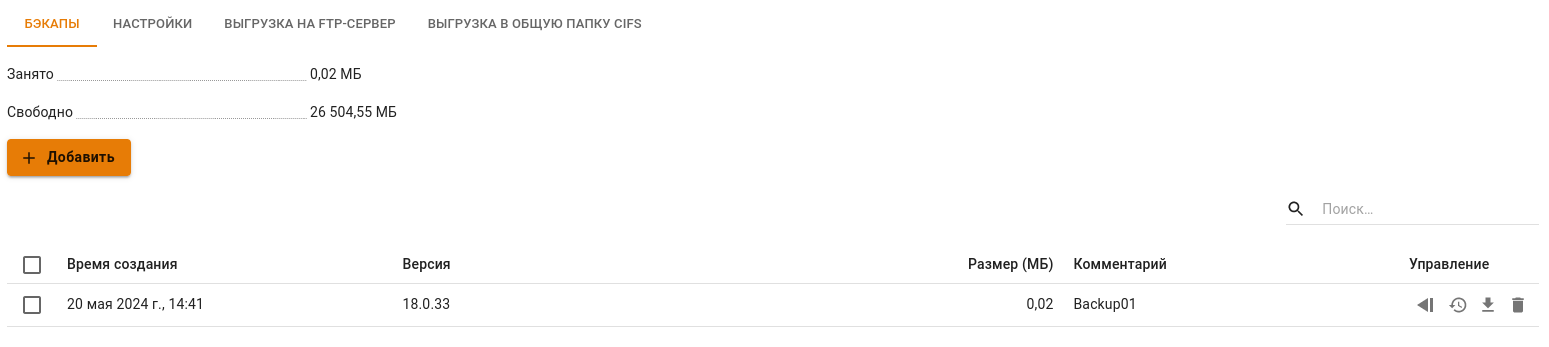
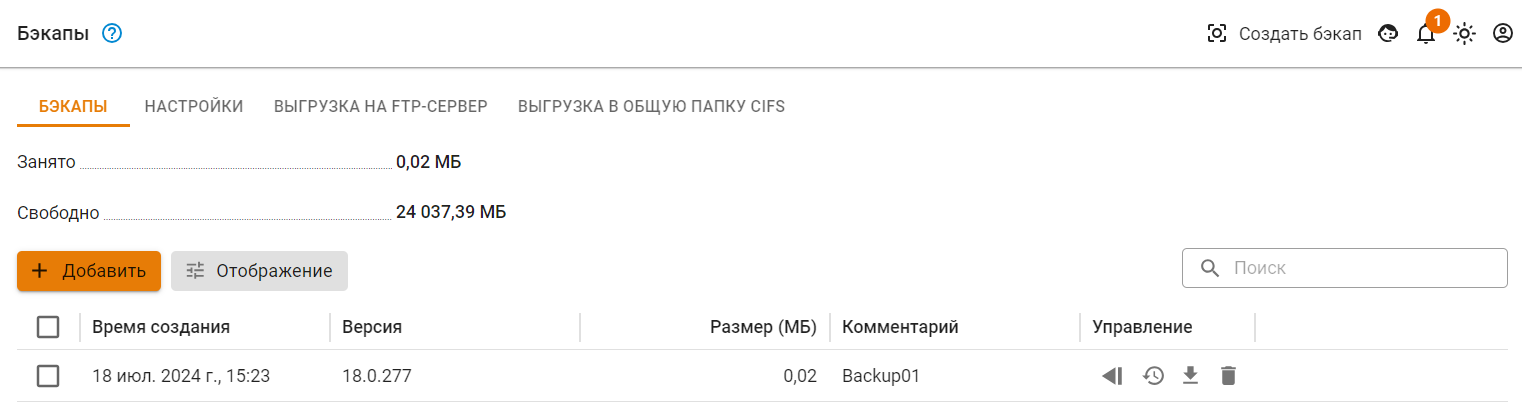
ICS-36600 УТМ. Актуализирвать статью Бекапы и VCE

diff --git a/settings/server-management/backup.md b/settings/server-management/backup.md
@@ -1,82 +1,76 @@
 ---
 description: >-
-  В этом разделе находится описание процесса создания бэкапа
-  интернет-шлюза Ideco NGFW.
+  В этом разделе находится описание процесса создания и восстановления бэкапа интернет-шлюза Ideco NGFW.
 ---
 
+# Бэкапы
+
+Бэкап - это предварительно созданная резервная копия данных, позволяющая восстановить большинство настроек и сохраненной информации.
+
 {% hint style="success" %}
-Название службы раздела **Бэкапы**: `ideco-backup-backend`; `ideco-backup-create`; `ideco-backup-restore`; `ideco-backup-rotate`.\
+Название служб раздела **Бэкапы**: `ideco-backup-backend`; `ideco-backup-create`; `ideco-backup-restore`; `ideco-backup-rotate`.\
 Список служб для других разделов доступен по [ссылке](/settings/server-management/terminal.md).
 {% endhint %}
 
-Интернет-шлюз поддерживает следующие типы автоматического бэкапа:
-
-* на сетевое файловое хранилище по протоколу FTP;
-* на сетевое файловое хранилище по протоколу NetBIOS;
-* на локальный жесткий диск.
-
-Для настройки автоматического бэкапа перейдите в раздел **Управление сервером -> Бэкапы -> Настройки** и укажите в настройках час (рекомендуется выбирать ночное время для создания бэкапа).
-
-{% hint style="info" %}
-Бэкапы включают в себя все настройки, которые администратор может создать в веб-интерфейсе.
+В NGFW создается только полный бэкап, который включают в себя все настройки, созданные администратором в веб-интерфейсе.
 
 Бэкапы не включают в себя:
 
-* Логи;
+* Журнал событий;
 * Почту;
 * Статистику web-трафика и другие отчеты;
-* Любые кешируемые данные - базы антивирусов, правила IPS и т. п.;
+* Любые кешируемые данные; базы антивирусов, правила IPS и т. п.;
 * Настройки созданных [VCE](/settings/server-management/vce.md);
 * Любые данные, генерируемые в процессе работы системы автоматически.
+
+{% hint style="info" %} В бэкап корневого VCE не входят данные и настройки, которые содержатся в дочерних VCE. Чтобы обеспечить полное сохранение данных, создайте бэкап отдельно по корневому VCE и по каждому из дочерних VCE.
 {% endhint %}
 
-Хранить бэкапы можно в течение недели или месяца:
+В NGFW бэкап создается как автоматически, так и вручную.
+
+## Автоматическое создание бэкапа
+Для настройки автоматического бэкапа перейдите в раздел **Управление сервером -> Бэкапы -> Настройки**:
 
 ![](/.gitbook/assets/backup.png)
 
-Для создания быстрого бэкапа нажмите ![](/.gitbook/assets/icon-backup.png) **Создать бэкап** в правом верхнем углу веб-интерфейса.
+Установите время ежедневного создания и продолжительность хранения бэкапа на локальном жестком диске. При настройке выгрузки на сетевое файловое хранилище автоматический бэкап будет также дублироваться туда.
 
-{% hint style="warning" %}
-Если на Ideco NGFW настроен кластер:
+* **Время ежедневного создания копии** - укажите в настройках час (рекомендуется выбирать ночное время для создания бэкапа);
 
-* Автоматические бэкапы отключены на резервной ноде. Все бэкапы с активной ноды передаются на резервную в момент обмена данными (происходит раз в три минуты) и заменяют те бэкапы, которые там присутствовали ранее;
-* На активной ноде доступно **Мгновенное восстановление из бэкапа**. Восстанавливаются все настройки, кроме использованного трафика по квотам, изменений в списке пользователей и отчетах. Данные на второй ноде также придут в соответствие с восстановленными настройкам после синхронизации нод;
-* Если с момента создания бэкапа на активной ноде до переключения нод не было синхронизации данных между нодами, после переключения этот бэкап будет потерян;
-* Если с момента мгновенного восстановления из бэкапа на активной ноде до переключения нод не было синхронизации данных между нодами, после переключения вторая нода окажется в состоянии до восстановления.
-{% endhint %}
+* **Хранить в течение** - хранить бэкапы на локальном жестком диске можно в течение недели или месяца.
 
-## Бэкапы на удаленное файловое хранилище по протоколу FTP
+{% hint style="info" %} Каждый автоматически созданный бэкап сохраняется в таблице бэкапов с комментарием "Автоматическая резервная копия".{% endhint %}
+
+Рекомендуется хранить бэкапы не только на локальном жестком диске, но и на внешних носителях. NGFW предоставляет возможность выгружать бэкапы:
+* на сетевое файловое хранилище по протоколу FTP;
+* на сетевое файловое хранилище по протоколу NetBIOS (CIFS);
+* на ПК через кнопку **Скачать** в таблице бэкапов (![](/.gitbook/assets/download.png)) для переноса с сервера на иной внешний носитель вручную.
+
+### Бэкапы на удаленное файловое хранилище по протоколу FTP 
 
 Ключевые параметры, необходимые для настройки бэкапа на FTP-сервер, описаны в таблице:
 
-<table><thead><tr><th width="188">Параметр</th><th>Описание</th></tr></thead><tbody><tr><td>Адрес сервера</td><td>IP-адрес удаленного FTP-сервера, на котором будут размещаться копии базы данных</td></tr><tr><td>Логин</td><td>Имя пользователя для авторизации на FTP-сервере</td></tr><tr><td>Пароль</td><td>Пароль для авторизации на FTP-сервере</td></tr><tr><td>Путь к каталогу</td><td>Каталог, в который будут записываться копии базы данных</td></tr></tbody></table>
+<table><thead><tr><th width="188">Параметр</th><th>Описание</th></tr></thead><tbody><tr><td>Адрес сервера</td><td>IP-адрес удаленного FTP-сервера, на котором будут размещаться бэкапы</td></tr><tr><td>Логин</td><td>Имя пользователя для авторизации на FTP-сервере</td></tr><tr><td>Пароль</td><td>Пароль для авторизации на FTP-сервере</td></tr><tr><td>Путь к каталогу</td><td>Каталог, в который будут записываться бэкапы</td></tr></tbody></table>
 
-## Бэкапы на сетевое файловое хранилище по протоколу NetBIOS (CIFS)
+### Бэкапы на сетевое файловое хранилище по протоколу NetBIOS (CIFS)
 
 Ключевые параметры, необходимые для настройки бэкапа на NetBIOS-сервер, описаны в таблице:
 
-<table><thead><tr><th width="189">Параметр</th><th>Описание</th></tr></thead><tbody><tr><td>Адрес сервера</td><td>IP-адрес удаленного NetBIOS-сервера, на котором будут размещаться копии базы данных</td></tr><tr><td>Логин</td><td>Имя пользователя для авторизации на сетевом ресурсе Windows</td></tr><tr><td>Пароль</td><td>Пароль для авторизации на сетевом ресурсе Windows</td></tr><tr><td>Путь к каталогу</td><td>Каталог, в который будут записываться копии базы данных</td></tr></tbody></table>
+<table><thead><tr><th width="189">Параметр</th><th>Описание</th></tr></thead><tbody><tr><td>Адрес сервера</td><td>IP-адрес удаленного NetBIOS-сервера, на котором будут размещаться бэкапы</td></tr><tr><td>Логин</td><td>Имя пользователя для авторизации на сетевом ресурсе Windows</td></tr><tr><td>Пароль</td><td>Пароль для авторизации на сетевом ресурсе Windows</td></tr><tr><td>Путь к каталогу</td><td>Каталог, в который будут записываться бэкапы</td></tr></tbody></table>
 
 {% hint style="info" %}
-Для доменной учетной записи формат поля **Логин** должен иметь вид: **Имя\_пользователя**.
-
 Укажите путь к каталогу в UNIX-формате. К примеру, в ОС Windows каталог открывается по следующему пути `\\192.168.1.1\dir_1\dir_2\backup`, значит, в поле **Путь к каталогу** пропишите `dir_1/dir_2/backup`.
 {% endhint %}
 
-## Бэкапы на локальный жесткий диск
+## Ручное создание бэкапа
 
-Загрузите бэкап с сервера или с компьютера на сервер с помощью веб-интерфейса либо локального меню.
+### Через веб-интерфейс
 
-* Кнопка **Добавить** позволяет создать бэкап настроек сервера. Копии настроек создаются автоматически ежедневно;
-* Кнопка **Мгновенное восстановление** позволяет восстановить все настройки, кроме использованного трафика по квотам, изменений в списке пользователей и отчетах. Бэкап применится без перезагрузки;
-* Кнопка **Полное восстановление** позволяет восстановить бэкап настроек. Возможно восстановление настроек только для бэкапа версии, одинаковой с установленной на сервере. Система будет перезагружена;
-* Кнопка **Скачать** позволяет скачать бэкап с сервера на ваш компьютер;
-* Кнопка **Удалить** удаляет бэкап с сервера.
-
-Интерфейс управления бэкапами:
+Для создания бэкапа через интерфейс Ideco NGFW перейдите в **Управление сервером -> Бэкапы -> Бэкапы** и нажмите **Добавить -> Создать**. Введите комментарий и нажмите **Добавить** или нажмите ![](/.gitbook/assets/icon-backup.png) **Создать бэкап** в правом верхнем углу веб-интерфейса. Новый бэкап появится в таблице:
 
 ![](/.gitbook/assets/backup4.png)
 
+### Через локальное меню
 Чтобы создать новый бэкап через локальное меню Ideco NGFW, выполните действия: 
 
 1\. Выберите пункт **10** и нажмите **Enter**. 
@@ -87,13 +81,33 @@ description: >-
 
 ![](/.gitbook/assets/local-menu3.png)
 
+{% hint style="info" %}
+Настройка сохранения бэкапа в сетевом файловом хранилище возможна только через веб-интерфейс Ideco NGFW. Выгрузка на внешние сетевые хранилища производится только при автоматическом создании бэкапа.
+{% endhint %}
+
 ## Восстановление конфигурации из бэкапа
 
-Восстановите конфигурацию из бэкапа, выбрав один из способов:
+В NGFW восстановление из бэкапа возможно полное и мгновенное. 
 
-<details>
+При выполнении полного восстановления система будет перезагружена для применения настроек сервера.
 
-<summary>Через локальное меню</summary>
+При выполнении мгновенного восстановления бэкап применятся без перезагрузки. При этом не сохраняются:
+* Счетчики квот;
+* Журнал событий.
+
+{% hint style="info" %} Полное восстановление возможно либо на текущую версию, либо на предыдущую мажорную версию. Например, на версии 17 возможно полное восстановление бэкапа версии 16 или версии 17. 
+
+Мгновенное восстановление возможно только для бэкапа версии, полностью совпадающей с установленной на сервере. {% endhint %}
+
+### Через веб-интерфейс
+
+Перейдите в раздел **Управление сервером -> Бэкапы -> Бэкапы** и нажмите кнопку **Полное восстановление** (![](/.gitbook/assets/icon-recovery.png)) или **Мгновенное восстановление** (![](/.gitbook/assets/mg-recovery.png)) в столбце **Управление**. 
+
+Также можно загрузить бэкап из файла. Например, в случае переноса с другого сервера. Для восстановления конфигураций бэкапа, который находится на внешнем носителе, перейдите на **Управление сервером -> Бэкапы -> вкладка Бэкапы**, нажмите на кнопку **Добавить** и выберите **Загрузить из файла**:
+
+![](/.gitbook/assets/backup2.png)
+
+### Через локальное меню
 
 Перейдите в локальное меню и выполните действия:
 
@@ -105,22 +119,21 @@ description: >-
 
 2\. Выберите из списка бэкап, введя пункт нужной копии, и нажмите **Enter**. 
 
-3\. Перезагрузите сервер, введя **y**, а затем **Enter**.
+3\. Перезагрузите сервер при запуске полного восстановления, введя **y**, а затем **Enter**. При мгновенном восстановлении перезагрузка не нужна.
 
 Пример восстановления из бэкапа через локальное меню:
 
 ![](/.gitbook/assets/local-menu4.png)
 
-</details>
-
-<details>
-
-<summary>Через веб-интерфейс</summary>
-
-Перейдите в раздел **Управление сервером -> Бэкапы -> Бэкапы** и нажмите кнопку **Применить** (![](/.gitbook/assets/icon-recovery.png) в столбце **Управление**). Система будет перезагружена для применения настроек сервера.
-
-</details>
-
 {% hint style="info" %}
 Чтобы перенести установленный Ideco NGFW с одного сервера на другой с сохранением всех настроек, воспользуйтесь статьей [Перенос данных и настроек на другой сервер](/recipes/popular-recipes/transferring-data-to-another-server.md).
+{% endhint %}
+
+{% hint style="warning" %}
+Если на Ideco NGFW настроен кластер:
+
+* Автоматические бэкапы отключены на резервной ноде. Все бэкапы с активной ноды передаются на резервную в момент обмена данными (происходит раз в три минуты) и заменяют те бэкапы, которые там присутствовали ранее;
+* На активной ноде доступно **Мгновенное восстановление из бэкапа**. Восстанавливаются все настройки, кроме использованного трафика по квотам, изменений в списке пользователей и отчетах. Данные на второй ноде также придут в соответствие с восстановленными настройкам после синхронизации нод;
+* Если с момента создания бэкапа на активной ноде до переключения нод не было синхронизации данных между нодами, после переключения этот бэкап будет потерян;
+* Если с момента мгновенного восстановления из бэкапа на активной ноде до переключения нод не было синхронизации данных между нодами, после переключения вторая нода окажется в состоянии до восстановления.
 {% endhint %}

diff --git a/settings/server-management/vce.md b/settings/server-management/vce.md
@@ -1,35 +1,34 @@
 # VCE
 
-VCE - это функция Ideco NGFW, которая позволяет создавать виртуальные серверы на одном корневом NGFW. Это дает возможность разбить одну локальную сеть на несколько независимых подсетей, индивидуально создавать для каждой из этих сетей политики безопасности и объекты, а также разграничивать доступ и независимо управлять дочерними VCE. При этом нет необходимости устанавливать и настраивать для этого отдельные физические серверы. 
-
-Функциональность созданных внутри NGFW виртуальных VCE-серверов почти не отличается от функциональности NGFW. 
+VCE - это функция Ideco NGFW, которая позволяет создавать виртуальные серверы на одном корневом NGFW. Это дает возможность разбить одну локальную сеть на несколько независимых подсетей, индивидуально создавать для каждой из этих сетей политики безопасности и объекты, а также разграничивать доступ и независимо управлять дочерними VCE. При этом нет необходимости устанавливать и настраивать для этого отдельные физические серверы.
 
 {% hint style="warning" %}
 Не предоставляйте доступ к VCE сторонним организациям, поскольку полная изоляция VCE не реализована и не предусмотрена. Предоставление доступа сторонним организациям может привести к угрозе безопасности сервера. 
 {% endhint %}
 
+Функциональность созданных внутри NGFW виртуальных VCE почти не отличается от функциональности NGFW. 
+
 **Возможности VCE:**
+* Создание виртуальных серверов Ideco NGFW и настройка независимых сетевых интерфейсов; 
+* Независимая настройка политик безопасности и прав доступа различным виртуальным NGFW;
+* Запуск и остановка виртуальных серверов с одного корневого NGFW.
 
-* [x] Создание виртуальных серверов Ideco NGFW и настройка независимых сетевых интерфейсов. 
-* [x] Независимая настройка политик безопасности и прав доступа различным виртуальным NGFW. 
-* [x] Запуск и остановка виртуальных серверов с одного корневого NGFW.
+**В интерфейсе VCE недоступно**:
 
-**В интерфейсе виртуального сервера недоступно**:
-
-* Создание [кластера](/settings/server-management/cluster.md) и VCE;
-* Полное восстановление из бэкапов (быстрое восстановление доступно); 
+* Создание [кластера](/settings/server-management/cluster.md);
+* Полное восстановление из бэкапов (как в локальном меню, так и в веб-интерфейсе Ideco NGFW). При этом доступно мгновенное восстановление (с версии 18 полное восстановление доступно);
 * Изменение статуса **Разрешить интернет всем**;
 * Изменение настроек часового пояса и языка:
 
 ![](/.gitbook/assets/vce18-1.png)
 
 {% hint style="info" %}
-В [бэкап](/settings/server-management/backup.md) корневого VCE не входят данные и настройки, которые содержатся в дочерних VCE.
+В [бэкап](/settings/server-management/backup.md) корневого VCE не входят данные и настройки, которые содержатся в дочерних VCE. Чтобы обеспечить полное сохранение данных, создайте бэкап отдельно по корневому VCE и по каждому из дочерних VCE.
 
 Нельзя добавлять LACP-интерфейсы в VCE.
 {% endhint %}
 
-## Создание виртуального сервера
+## Создание VCE
 
 {% hint style="info" %}
 Для работы VCE требуется не менее 16 ГБ оперативной памяти.
@@ -53,7 +52,7 @@ VCE - это функция Ideco NGFW, которая позволяет соз
 
 Чтобы отредактировать VCE, нажмите на ![](/.gitbook/assets/icon-edit.png). При редактировании можно менять название виртуального сервера. Редактирование доступно в том числе для работающего VCE.
 
-## Переход в веб-интерфейс виртуального сервера
+## Переход в веб-интерфейс VCE
 
 После создания VCE текущий сервер Ideco NGFW, в котором VCE был создан, будет обозначен как корневой:
 
